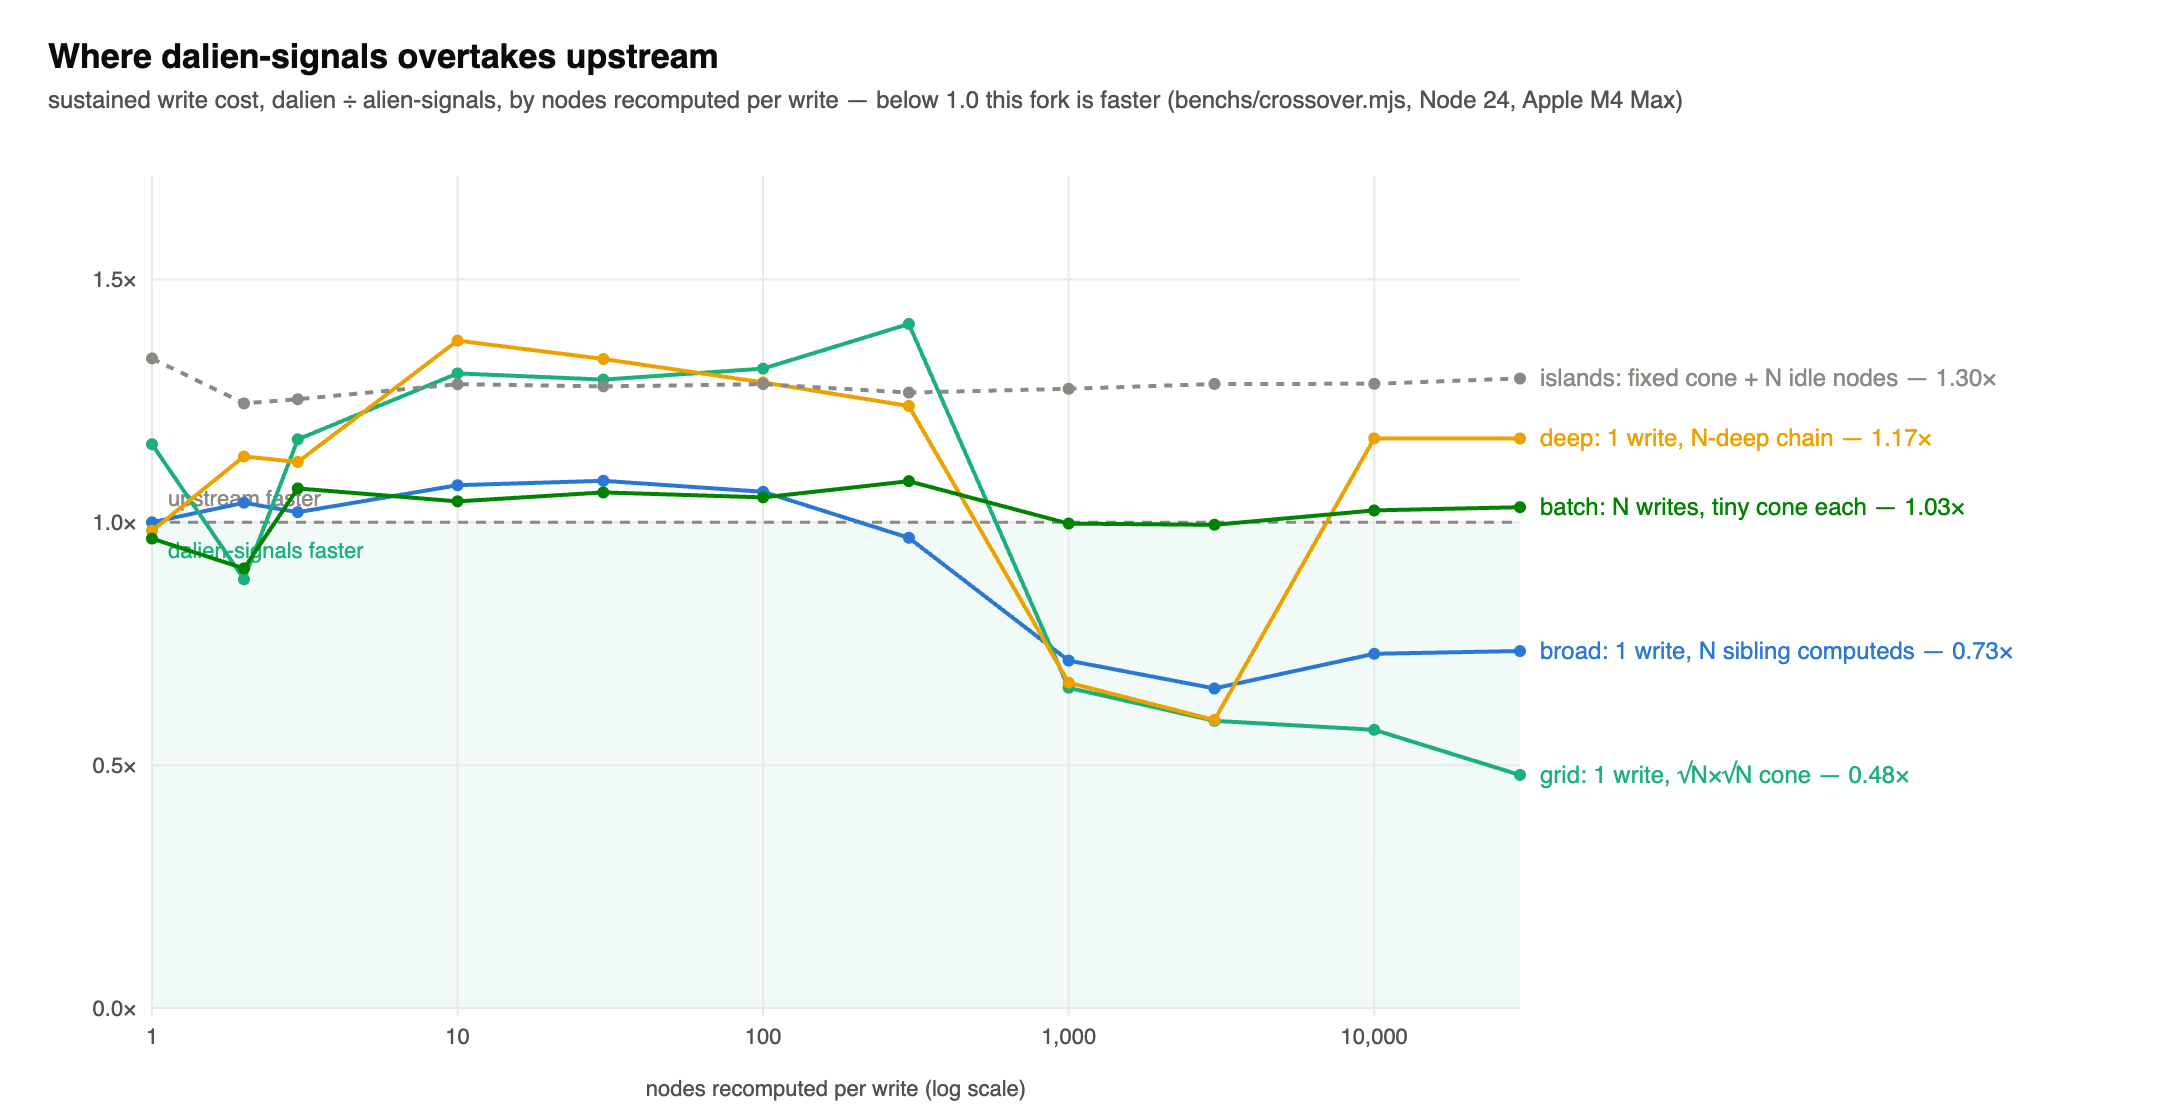
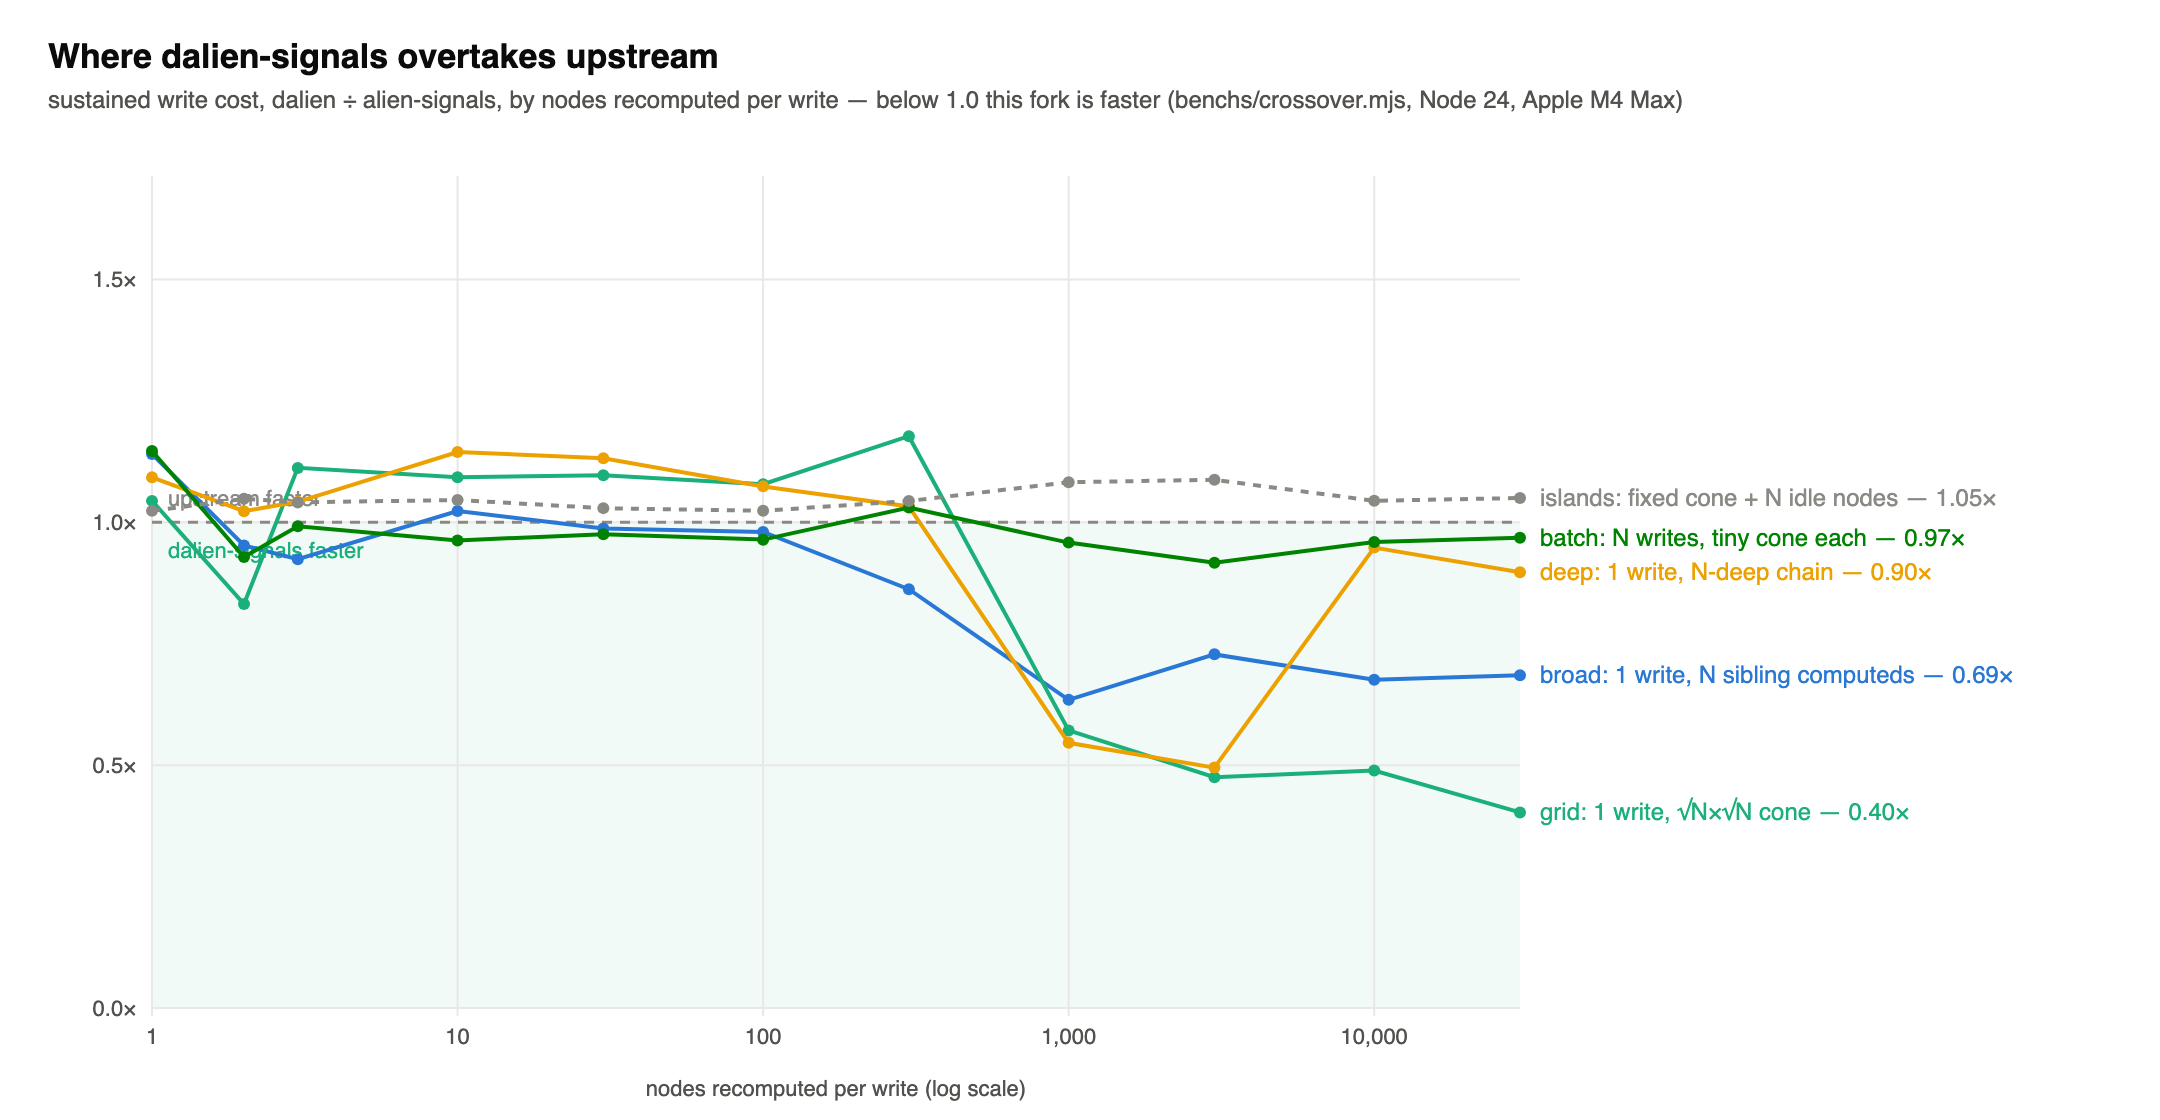
f64 epoch stamps + stackless chain walk: crossover parity through the mid-range
Two kernel changes aimed at the write-cost crossover chart's mid-range,
where upstream led 1.1-1.4x:

- The write epoch is now ONE float64 (2^53 never wraps) read through a
  Float64Array view over the arena — D[(id >> 1) + 3], stamp at record
  offset 24 so alignment holds. One load-and-compare and one store
  replace two of each; the split lo/hi carry machinery is gone. ~4% on
  chain-shaped waves, and cheaper quiet reads everywhere.

- chainCheck: runs of single-dep, single-subscriber pending nodes walk
  with NO traversal stack. The descent is unbranched, and the unwind
  path is recoverable by climbing each node's unique subscriber link —
  the resume state a branching walk needs a stack for is already in
  the graph. Deep/grid/island cones are exactly this shape. Falls back
  to the general loop with nothing mutated on any non-chain shape;
  equality cut-off clears PENDING on the climb (pinned by tests).

Fresh full matrix (5 families x 11 sizes, same-session, adaptive
seeding active): geometric mean ratio vs upstream 0.915. broad/batch
at parity everywhere, islands 1.02-1.09 (was ~1.27), deep 1.02-1.14
mid then 0.50-0.55 at 1000-3000, grid worst cell 1.18 at 300 then
0.40-0.57 at scale. Old chart: upstream led 1.1-1.4x from 3-300 nodes.

Gates: sustained matrix mean 0.956 (worst 1.014); suite best-of-2
0.989 (createSignals 1.47 investigated: bimodal GC timing, same build
swings 6.7-11.6ms). 281 tests green; checkDirty budget 400 -> 420
[…]

diff --git a/src/system.ts b/src/system.ts
@@ -131,9 +131,12 @@ const enum C {
 	SUBS = 3,
 	SUBS_TAIL = 4,
 	GEN = 5, // bumped on free; disposers capture it to defuse stale ids
-	// Quiet-read verification stamp, split across two i32 slots (53-bit
-	// epoch: never wraps). Same cache line as FLAGS, so the fast-path check
-	// costs no extra memory traffic. Node records are now fully packed.
+	// Quiet-read verification stamp: slots 6-7 hold ONE float64 (the write
+	// epoch; 53-bit integer range never wraps), read through the D
+	// Float64Array view over the same buffer — one load and one compare on
+	// the fast path instead of two of each. Same cache line as FLAGS. The
+	// f64 index of a node's stamp is (id >> 1) + 3 (records are 32 bytes,
+	// the stamp at byte offset 24, so 8-byte alignment holds).
 	VSTAMP_HI = 6,
 	VSTAMP_LO = 7,
 
@@ -496,17 +499,14 @@ export function createReactiveSystem(options?: ReactiveSystemOptions): ReactiveS
 	// ladder entirely. Preact/Vue 3.6/Svelte ship the same idea; upstream
 	// alien-signals does not. Split lo/hi (manual carry at 2^30) so stamps
 	// fit two i32 record slots and the whole scheme never wraps.
-	let epochLo = 1;
-	let epochHi = 1;
+	let epoch = 1;
 
 	// Invalidate every quiet-read stamp: any observed change MUST pass here
 	// (or use the inline twin in write()) or stamped computeds keep serving
-	// their cached values.
+	// their cached values. A float64 epoch never wraps (2^53 writes is
+	// decades of sustained 10ns writes).
 	function bumpEpoch(): void {
-		if (++epochLo === 0x40000000) {
-			epochLo = 0;
-			++epochHi;
-		}
+		++epoch;
 	}
 	let runDepth = 0;
 	let batchDepth = 0;
@@ -898,6 +898,8 @@ export function createReactiveSystem(options?: ReactiveSystemOptions): ReactiveS
 
 	function createEngine(records: number, from?: Int32Array): Engine {
 		const M = new Int32Array(records * 8);
+		// Float64 view over the same plane for the one-slot epoch stamps.
+		const D = new Float64Array(M.buffer);
 		if (from !== undefined) {
 			// Growth migration: ids are arena-relative offsets, so copying the
 			// live prefix preserves every id, edge, generation, and stamp.
@@ -1070,8 +1072,7 @@ export function createReactiveSystem(options?: ReactiveSystemOptions): ReactiveS
 		}
 
 		function freeNode(id: number): void {
-			M[id + C.VSTAMP_LO] = 0;
-			M[id + C.VSTAMP_HI] = 0;
+			D[(id >> 1) + 3] = 0;
 			M[id + C.FLAGS] = 0;
 			M[id + C.DEPS_TAIL] = 0;
 			M[id + C.SUBS] = 0;
@@ -1436,6 +1437,16 @@ export function createReactiveSystem(options?: ReactiveSystemOptions): ReactiveS
 				// Anything deeper falls through to the general loop with no
 				// state mutated.
 			}
+			// Chains: a run of single-dep, single-subscriber pending nodes
+			// needs no traversal stack — the descent is unbranched, and the
+			// unwind path is recoverable by climbing each node's unique
+			// subscriber link. deep/grid/island cones are exactly this shape.
+			if (!M[startLink + C.NEXT_DEP]) {
+				const r = chainCheck(startLink);
+				if (r >= 0) {
+					return r !== 0 && M[startSub + C.FLAGS] !== 0;
+				}
+			}
 			const stackBase = checkSp;
 			try {
 				return checkDirtyLoop(startLink, startSub);
@@ -1455,6 +1466,55 @@ export function createReactiveSystem(options?: ReactiveSystemOptions): ReactiveS
 				return true;
 			}
 			return false;
+		}
+
+		// Stackless walk for pure chains (see checkDirty). Descends while the
+		// pending dep has exactly one dep-link and one subscriber; on finding
+		// a directly-dirty base, updates back UP by climbing the unique
+		// subscriber links — the resume state a branching walk would need a
+		// stack for is recoverable from the graph itself. Returns 1 (dirty:
+		// caller re-checks its sub), 0 (resolved clean), -1 (shape is not a
+		// chain here: fall through to the general loop, nothing mutated).
+		function chainCheck(startLink: number): number {
+			let link = startLink;
+			let depth = 0;
+			let dep = 0;
+			while (true) {
+				dep = M[link + C.DEP];
+				const flags = M[dep + C.FLAGS];
+				if ((flags & (C.MUTABLE | C.DIRTY)) === (C.MUTABLE | C.DIRTY)) {
+					break; // dirty base found
+				}
+				if ((flags & (C.MUTABLE | C.PENDING)) !== (C.MUTABLE | C.PENDING)) {
+					return -1; // clean or non-mutable dep: not a resolvable chain
+				}
+				const depDeps = M[dep + C.DEPS];
+				if (!depDeps || M[depDeps + C.NEXT_DEP] !== 0) {
+					return -1; // branching deps
+				}
+				const depSubs = M[dep + C.SUBS];
+				if (!depSubs || M[depSubs + C.NEXT_SUB] !== 0) {
+					return -1; // shared node: the climb needs a unique subscriber
+				}
+				link = depDeps;
+				++depth;
+			}
+			if (!depth) {
+				return -1; // directly-dirty first dep: the shallow paths own this
+			}
+			let changed = updateAndShallow(dep, M[dep + C.SUBS]);
+			let node = dep;
+			while (depth--) {
+				const up = M[node + C.SUBS];
+				const sub = M[up + C.SUB];
+				if (changed) {
+					changed = updateAndShallow(sub, M[sub + C.SUBS]);
+				} else {
+					M[sub + C.FLAGS] &= ~C.PENDING;
+				}
+				node = sub;
+			}
+			return changed ? 1 : 0;
 		}
 
 		function checkDirtyLoop(cur: number, sub: number): boolean {
@@ -1612,8 +1672,7 @@ export function createReactiveSystem(options?: ReactiveSystemOptions): ReactiveS
 				// Alien recomputes an unwatched computed on its next read (it
 				// is marked Dirty without any write); drop the stamp so the
 				// fast path cannot skip that recompute.
-				M[node + C.VSTAMP_LO] = 0;
-				M[node + C.VSTAMP_HI] = 0;
+				D[(node >> 1) + 3] = 0;
 				if (flags & C.ORPHANED) {
 					reclaimOrphan(node); // handle already collected; nothing can re-subscribe
 				} else {
@@ -1835,8 +1894,7 @@ export function createReactiveSystem(options?: ReactiveSystemOptions): ReactiveS
 				inner!.clearStamp(id);
 				return;
 			}
-			M[id + C.VSTAMP_LO] = 0;
-			M[id + C.VSTAMP_HI] = 0;
+			D[(id >> 1) + 3] = 0;
 		}
 
 		// FinalizationRegistry target: the handle for this signal/computed was
@@ -2004,10 +2062,7 @@ export function createReactiveSystem(options?: ReactiveSystemOptions): ReactiveS
 					// Stamps only exist on subscribed-or-once-subscribed
 					// computeds, which hold links; an unobserved write can
 					// invalidate no stamp, so the epoch only moves here.
-					if (++epochLo === 0x40000000) {
-						epochLo = 0;
-						++epochHi;
-					}
+					++epoch;
 					propagate(subs, runDepth !== 0);
 					if (!batchDepth) {
 						flush();
@@ -2019,7 +2074,7 @@ export function createReactiveSystem(options?: ReactiveSystemOptions): ReactiveS
 		// computedOper for id-level callers: their getter is installed
 		// permanently by newComputed, so no evaluator ever needs carrying.
 		function computedRead(c: number): unknown {
-			if (M[c + C.VSTAMP_LO] === epochLo && M[c + C.VSTAMP_HI] === epochHi) {
+			if (D[(c >> 1) + 3] === epoch) {
 				const fastSub = activeSub;
 				if (fastSub !== 0) {
 					link(c, fastSub, cycle);
@@ -2034,8 +2089,7 @@ export function createReactiveSystem(options?: ReactiveSystemOptions): ReactiveS
 			// Stamp with the epoch captured BEFORE the body: if user code run
 			// during verification writes a signal (bumping the epoch), the
 			// stamp is already stale and the next read re-verifies.
-			const lo = epochLo;
-			const hi = epochHi;
+			const entryEpoch = epoch;
 			const flags = M[c + C.FLAGS];
 			if (
 				flags & C.DIRTY
@@ -2067,8 +2121,7 @@ export function createReactiveSystem(options?: ReactiveSystemOptions): ReactiveS
 			// before the next write. The entry-captured epoch keeps this
 			// safe: a write from user code during verification moved the
 			// epoch past `lo/hi`, so the stamp can only miss, never lie.
-			M[c + C.VSTAMP_LO] = lo;
-			M[c + C.VSTAMP_HI] = hi;
+			D[(c >> 1) + 3] = entryEpoch;
 			return vals[c >> 2];
 		}
 
@@ -2121,7 +2174,7 @@ export function createReactiveSystem(options?: ReactiveSystemOptions): ReactiveS
 		// Slow twin of computedRead for the sentinel paths: carries the
 		// handle-owned evaluator and installs it on subscription.
 		function computedReadWith(c: number, getter: (previousValue?: unknown) => unknown): unknown {
-			if (M[c + C.VSTAMP_LO] === epochLo && M[c + C.VSTAMP_HI] === epochHi) {
+			if (D[(c >> 1) + 3] === epoch) {
 				const fastSub = activeSub;
 				if (fastSub !== 0) {
 					link(c, fastSub, cycle);
@@ -2143,8 +2196,7 @@ export function createReactiveSystem(options?: ReactiveSystemOptions): ReactiveS
 			if (retired) {
 				return inner!.computedReadWith(c, getter);
 			}
-			const lo = epochLo;
-			const hi = epochHi;
+			const entryEpoch = epoch;
 			const flags = M[c + C.FLAGS];
 			if (
 				flags & C.DIRTY
@@ -2179,8 +2231,7 @@ export function createReactiveSystem(options?: ReactiveSystemOptions): ReactiveS
 			}
 			// Stamp tracked reads too — see computedRead for the epoch
 			// argument; the write->flush->read pattern consumes these stamps.
-			M[c + C.VSTAMP_LO] = lo;
-			M[c + C.VSTAMP_HI] = hi;
+			D[(c >> 1) + 3] = entryEpoch;
 			return vals[c >> 2];
 		}
 
@@ -2203,10 +2254,7 @@ export function createReactiveSystem(options?: ReactiveSystemOptions): ReactiveS
 				fn();
 			} finally {
 				activeSub = prevSub;
-				if (++epochLo === 0x40000000) {
-					epochLo = 0;
-					++epochHi;
-				}
+				++epoch;
 				M[sub + C.FLAGS] = 0;
 				let cur = M[sub + C.DEPS];
 				while (cur !== 0) {

diff --git a/tests/chainWalk.spec.ts b/tests/chainWalk.spec.ts
@@ -1,0 +1,90 @@
+import { expect, test } from 'vitest';
+import { computed, effect, signal } from '../src';
+
+// The stackless chain walk (chainCheck in system.ts) resolves runs of
+// single-dep single-subscriber pending nodes without the traversal stack.
+// These tests pin its semantics: equality cut-off mid-chain, bail-out to the
+// general loop on branching shapes, and end-to-end propagation.
+
+test('deep chain propagates end to end through the chain walk', () => {
+	const src = signal(1);
+	let last: () => number = src as unknown as () => number;
+	for (let i = 0; i < 50; i++) {
+		const prev = last;
+		last = computed(() => prev() + 1);
+	}
+	let seen = 0;
+	let runs = 0;
+	effect(() => {
+		seen = last();
+		runs++;
+	});
+	expect(seen).toBe(51);
+	src(10);
+	expect(seen).toBe(60);
+	expect(runs).toBe(2);
+});
+
+test('equality cut mid-chain stops the wave and clears pending', () => {
+	const src = signal(1);
+	const a = computed(() => src() + 1);
+	const clamp = computed(() => Math.min(a(), 5));
+	const b = computed(() => clamp() * 10);
+	const c = computed(() => b() + 1);
+	let runs = 0;
+	let seen = 0;
+	effect(() => {
+		seen = c();
+		runs++;
+	});
+	expect(seen).toBe(21);
+	src(2); // clamp 3 -> changes
+	expect(runs).toBe(2);
+	expect(seen).toBe(31);
+	src(10); // clamp saturates at 5
+	expect(runs).toBe(3);
+	expect(seen).toBe(51);
+	src(20); // clamp still 5: unchanged, effect must NOT rerun
+	expect(runs).toBe(3);
+	src(3); // back under the clamp: wave resumes (pending was cleared, not stuck)
+	expect(runs).toBe(4);
+	expect(seen).toBe(41);
+});
+
+test('multi-subscriber node mid-chain falls back to the general walk', () => {
+	const src = signal(1);
+	const shared = computed(() => src() * 2);
+	// shared has two subscribers: the chain walk must bail and stay correct.
+	const left = computed(() => shared() + 1);
+	const right = computed(() => shared() + 2);
+	const tailL = computed(() => left() + 1);
+	const tailR = computed(() => right() + 1);
+	let seenL = 0;
+	let seenR = 0;
+	effect(() => {
+		seenL = tailL();
+	});
+	effect(() => {
+		seenR = tailR();
+	});
+	src(5);
+	expect(seenL).toBe(12);
+	expect(seenR).toBe(13);
+});
+
+test('branching deps mid-chain fall back to the general walk', () => {
+	const s1 = signal(1);
+	const s2 = signal(10);
+	const join = computed(() => s1() + s2()); // two deps: not a chain
+	const tail1 = computed(() => join() + 1);
+	const tail2 = computed(() => tail1() + 1);
+	let seen = 0;
+	effect(() => {
+		seen = tail2();
+	});
+	expect(seen).toBe(13);
+	s1(2);
+	expect(seen).toBe(14);
+	s2(20);
+	expect(seen).toBe(24);
+});

diff --git a/tests/bytecode.spec.ts b/tests/bytecode.spec.ts
@@ -27,7 +27,8 @@ const BUDGETS: Record<string, number> = {
 	linkInsert: 340,
 	unlink: 300,
 	propagate: 420,
-	checkDirty: 400, // wrapper + the one- and two-level shallow fast paths; still inside the inline limit so run()/computedReadWith can absorb it
+	checkDirty: 420, // wrapper + shallow fast paths + the chainCheck dispatch; still inside the inline limit so run()/computedReadWith can absorb it
+	chainCheck: 300, // stackless chain walk (not inlined; it loops)
 	checkDirtyLoop: INLINE_LIMIT,
 	updateAndShallow: 100,
 	shallowPropagate: 160,

diff --git a/README.md b/README.md
@@ -301,11 +301,11 @@ Effects use the same pending-versus-dirty distinction to decide whether their ca
 
 Bits identifying the node type or tracking record recycling are engine-only and are hidden from that object. `ReactiveFlags`, exported by `dalien-signals/system`, names bits 0–5 so integrations do not need to hard-code their numeric values.
 
-Whenever a write could invalidate cached work, the engine increments a global write counter, called the **epoch**. After checking or recalculating a computed, it saves the epoch in `VSTAMP_HI` and `VSTAMP_LO`. If the saved and current epochs match on the next read, no write that could affect the cache occurred in between, so the value can be returned without walking the graph. If a callback writes another signal during the check, the current epoch advances and the saved value no longer matches.
+Whenever a write could invalidate cached work, the engine increments a global write counter, called the **epoch**. After checking or recalculating a computed, it saves the epoch into the record's stamp — one float64 spanning slots 6–7, read through a `Float64Array` view over the same arena (a 53-bit counter never wraps, and one load-and-compare replaces two). If the saved and current epochs match on the next read, no write that could affect the cache occurred in between, so the value can be returned without walking the graph. If a callback writes another signal during the check, the current epoch advances and the saved value no longer matches.
 
 ## Performance details
 
-- One- and two-link updates use dedicated fast paths instead of the general graph traversal.
+- One- and two-link updates use dedicated fast paths instead of the general graph traversal. Runs of single-dependency, single-subscriber nodes — chains — walk without the traversal stack: the way back up is recoverable from each node's unique subscriber link.
 - The engine seeds its user-callback call sites past V8's megamorphic threshold (>4 function shapes) when minted callback shapes diversify — sampled per call-site family (getters vs effect callbacks) on a geometric cadence. Single-shape processes never seed and keep full monomorphic JIT speculation at any graph size (measured 1.15x on a hot chain); diverse processes converge to the seeded steady state (insurance ratio 1.01, `benchs/phaseTransition.mjs`). `configure({ seeding: 'eager' | 'off' })` overrides.
 - JavaScript's `FinalizationRegistry` reports signal and computed functions that the application can no longer reach. Their records are then returned to the free lists.
 - The lower-level engine's `reset()` method clears the whole arena at once. Functions and numeric IDs created before the reset become invalid.
@@ -414,7 +414,7 @@ Using an ID after its node is disposed or reclaimed is undefined behavior, excep
 - The arena grows between operations. Once 3/4 full, the engine is rebuilt over an arena twice the size; every record is copied and IDs survive, so functions created before a growth keep working. Before any growth there is no cost (totals within noise; epoch-fast-path reads pay nothing). After a growth, graph-walk-heavy operations run up to ~1.9x slower for the rest of the process: rebuilding instantiates the engine's functions a second time, and V8 then stops embedding the arena's address in optimized code (a one-way decision). Size `initialRecords` so hot processes never grow. Creating multiple systems in one process costs the same, for the same reason.
 - Growth cannot move the arena under a running callback. A single effect or computed callback that allocates past the remaining quarter of the arena throws; `configure({ initialRecords })` sets a larger starting capacity for allocation-heavy paths. By default the arena asks the operating system for a 256 MB address range holding 8,388,608 records; physical memory is consumed only for records that are touched.
 - The JavaScript runtime must support `FinalizationRegistry`, which is part of ES2021.
-- The original `alien-signals` can be faster when repeatedly updating one tiny graph or a long single chain. This arena performs better when one write updates many dependents, and it allocates fewer graph objects for the garbage collector. See `benchs/propagateSustained.mjs`, `benchs/crossover.mjs`, and `benchs/memoryUsage.mjs`.
+- Across the write-cost crossover matrix (5 shape families x 11 sizes, `benchs/crossover.mjs`), this arena averages ~8% faster than the original `alien-signals` (geometric mean ratio 0.92) and reaches 1.4-2.5x faster once a write recomputes hundreds of nodes. The remaining upstream edge is a narrow band: single-node writes and 10-300-node chain segments run up to ~1.2x this fork's time, and a fixed cone surrounded by idle nodes carries a flat ~5% premium. `benchs/propagateSustained.mjs` and `benchs/memoryUsage.mjs` probe the adjacent regimes.
 
 <img width="1080" alt="Sustained write cost ratio (dalien over alien) by recomputed nodes per write" src="assets/crossover.png" />
 
